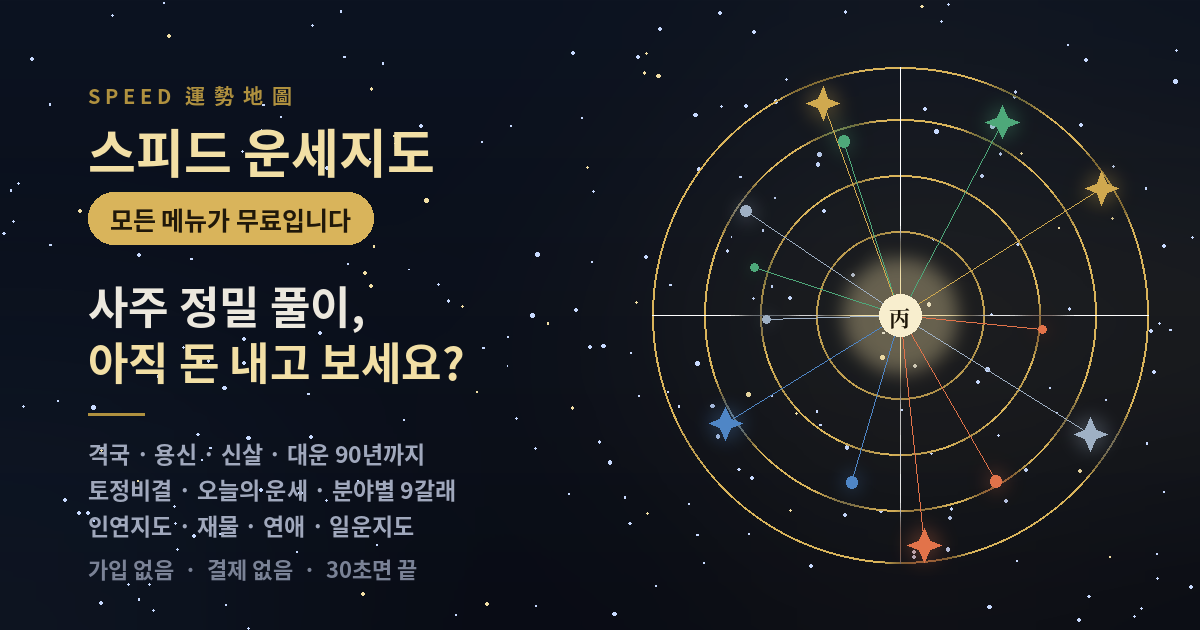
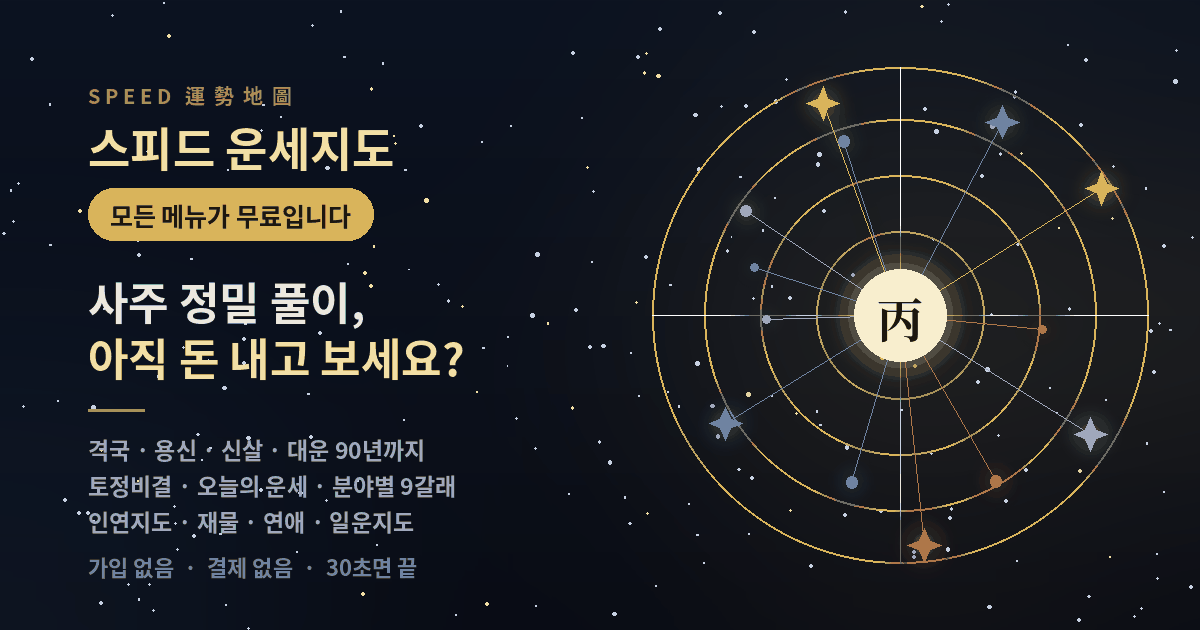
페이지별 썸네일 9종
홈·사주 정밀 풀이·오늘의 운세·토정비결·분야별 풀이·재물지도·연애지도·일운지도·인연지도가 각각 다른 OG 썸네일을 씁니다. 중앙 글리프(丙 四 日 卦 ◈ 財 緣 業 ✦)와 포인트 색, 문구가 페이지마다 다릅니다. /w/:code 는 방 주제에 맞는 썸네일, /m/:code 는 인연지도 썸네일. og:image:alt 도 페이지 제목으로 교체.

diff --git a/index.js b/index.js
@@ -7,6 +7,21 @@ import { deepSaju, extendDeep } from './deep.js';
 import { leapMonthOf, lunarMonthLength } from './astro.js';
 import APP_HTML from './app.html';
 import OG_PNG from './og.png';
+import OG_SAJU from './og-saju.png';
+import OG_TODAY from './og-today.png';
+import OG_TOJEONG from './og-tojeong.png';
+import OG_LIFE from './og-life.png';
+import OG_WEALTH from './og-wealth.png';
+import OG_LOVE from './og-love.png';
+import OG_WORK from './og-work.png';
+import OG_MAP from './og-map.png';
+
+/* 페이지별 썸네일 */
+const OG_FILES = {
+  'og.png': OG_PNG, 'og-saju.png': OG_SAJU, 'og-today.png': OG_TODAY,
+  'og-tojeong.png': OG_TOJEONG, 'og-life.png': OG_LIFE, 'og-wealth.png': OG_WEALTH,
+  'og-love.png': OG_LOVE, 'og-work.png': OG_WORK, 'og-map.png': OG_MAP,
+};
 import AD1_PNG from './ad1.png';
 import { handleAuth, currentUser, ensureAuthSchema, enabledProviders } from './auth.js';
 import { privacyPage, termsPage } from './legal.js';
@@ -689,6 +704,7 @@ async function handleApi(request, env, url) {
 }
 
 function renderPage(meta) {
+  const img = OG_FILES[meta.img] ? meta.img : 'og.png';
   const t = esc(meta.title);
   const d = esc(meta.desc);
   const u = esc(meta.url);
@@ -701,14 +717,14 @@ function renderPage(meta) {
 <meta property="og:title" content="${t}">
 <meta property="og:description" content="${d}">
 <meta property="og:url" content="${u}">
-<meta property="og:image" content="${esc(meta.origin)}/og.png">
+<meta property="og:image" content="${esc(meta.origin)}/${img}">
 <meta property="og:image:width" content="1200">
 <meta property="og:image:height" content="630">
 <meta property="og:image:type" content="image/png">
-<meta property="og:image:alt" content="인연지도 - 사주로 그리는 사람 별자리 지도">
+<meta property="og:image:alt" content="${t}">
 <meta name="twitter:title" content="${t}">
 <meta name="twitter:description" content="${d}">
-<meta name="twitter:image" content="${esc(meta.origin)}/og.png">
+<meta name="twitter:image" content="${esc(meta.origin)}/${img}">
 <meta name="twitter:card" content="summary_large_image">
 <link rel="canonical" href="${u}">`;
   return APP_HTML.replace('<!--HEAD-->', head)
@@ -740,10 +756,14 @@ export default {
       }
     }
 
-    if (url.pathname === '/og.png') {
-      return new Response(OG_PNG, {
-        headers: { 'content-type': 'image/png', 'cache-control': 'public, max-age=604800' },
-      });
+    if (url.pathname.startsWith('/og') && url.pathname.endsWith('.png')) {
+      const key = url.pathname.slice(1);
+      const buf = OG_FILES[key];
+      if (buf) {
+        return new Response(buf, {
+          headers: { 'content-type': 'image/png', 'cache-control': 'public, max-age=604800' },
+        });
+      }
     }
 
     if (url.pathname === '/ad1.png') {
@@ -763,21 +783,21 @@ export default {
       });
     }
     const PAGES = {
-      '/today': { view: 'today', title: '오늘의 운세 · 스피드 운세지도', desc: '오늘 일진과 내 사주를 견줘 하루의 결을 봅니다. 시간대별 12시진 흐름, 오늘 맞는 띠, 이번 주 7일 흐름까지 무료입니다.' },
-      '/saju': { view: 'saju', title: '사주 정밀 풀이 · 스피드 운세지도', desc: '원국 여덟 글자에 십신·지장간·십이운성·공망, 신강신약·격국·용신, 신살 20여 종, 궁과 육친, 대운 90년과 올해 12개월까지. 전부 무료입니다.' },
-      '/life': { view: 'life', title: '분야별 풀이 · 스피드 운세지도', desc: '건강·재물·일·애정·문서·가정·사람·이동·말년. 내 원국을 아홉 갈래로 나눠 점수와 풀이를 따로 냅니다. 무료입니다.' },
-      '/about': { view: 'about', title: '어떻게 계산하나요 · 스피드 운세지도', desc: '스피드 운세지도가 쓰는 명리학 방법과 천문 계산을 그대로 공개합니다.' },
-      '/tojeong': { view: 'tojeong', title: '토정비결 · 스피드 운세지도', desc: '올해 나의 토정비결을 무료로 봅니다. 144괘 작괘는 전통 그대로, 여기에 재물·직장·애정·건강·문서·이동·사람·구설 여덟 갈래와 12개월 월운까지 더했습니다.' },
-      '/my': { view: 'profile', title: '내 사주 · 스피드 운세지도', desc: '생년월일을 한 번만 넣으면 오늘의 운세·사주팔자·분야별 풀이가 바로 열립니다.' },
-      '/wealth': { view: 'roomNew', topic: 'wealth', title: '재물지도 · 스피드 운세지도', desc: '단톡방 사람들의 재물 사주를 한 장의 지도에 모읍니다. 가운데가 財, 안쪽에 있을수록 재물 그릇이 큰 사람입니다. 무료입니다.' },
-      '/love': { view: 'roomNew', topic: 'love', title: '연애지도 · 스피드 운세지도', desc: '단톡방에서 누구에게 인연이 먼저 오는지 사주로 봅니다. 애인 유무는 묻지 않습니다. 무료입니다.' },
-      '/work': { view: 'roomNew', topic: 'work', title: '일운지도 · 스피드 운세지도', desc: '누가 크게 쓰일 사람인지 사주로 봅니다. 직업이나 연봉은 묻지 않습니다. 무료입니다.' },
+      '/today': { view: 'today', img: 'og-today.png', title: '오늘의 운세 · 스피드 운세지도', desc: '오늘 일진과 내 사주를 견줘 하루의 결을 봅니다. 시간대별 12시진 흐름, 오늘 맞는 띠, 이번 주 7일 흐름까지 무료입니다.' },
+      '/saju': { view: 'saju', img: 'og-saju.png', title: '사주 정밀 풀이 · 스피드 운세지도', desc: '원국 여덟 글자에 십신·지장간·십이운성·공망, 신강신약·격국·용신, 신살 20여 종, 궁과 육친, 대운 90년과 올해 12개월까지. 전부 무료입니다.' },
+      '/life': { view: 'life', img: 'og-life.png', title: '분야별 풀이 · 스피드 운세지도', desc: '건강·재물·일·애정·문서·가정·사람·이동·말년. 내 원국을 아홉 갈래로 나눠 점수와 풀이를 따로 냅니다. 무료입니다.' },
+      '/about': { view: 'about', img: 'og.png', title: '어떻게 계산하나요 · 스피드 운세지도', desc: '스피드 운세지도가 쓰는 명리학 방법과 천문 계산을 그대로 공개합니다.' },
+      '/tojeong': { view: 'tojeong', img: 'og-tojeong.png', title: '토정비결 · 스피드 운세지도', desc: '올해 나의 토정비결을 무료로 봅니다. 144괘 작괘는 전통 그대로, 여기에 재물·직장·애정·건강·문서·이동·사람·구설 여덟 갈래와 12개월 월운까지 더했습니다.' },
+      '/my': { view: 'profile', img: 'og-saju.png', title: '내 사주 · 스피드 운세지도', desc: '생년월일을 한 번만 넣으면 오늘의 운세·사주팔자·분야별 풀이가 바로 열립니다.' },
+      '/wealth': { view: 'roomNew', topic: 'wealth', img: 'og-wealth.png', title: '재물지도 · 스피드 운세지도', desc: '단톡방 사람들의 재물 사주를 한 장의 지도에 모읍니다. 가운데가 財, 안쪽에 있을수록 재물 그릇이 큰 사람입니다. 무료입니다.' },
+      '/love': { view: 'roomNew', topic: 'love', img: 'og-love.png', title: '연애지도 · 스피드 운세지도', desc: '단톡방에서 누구에게 인연이 먼저 오는지 사주로 봅니다. 애인 유무는 묻지 않습니다. 무료입니다.' },
+      '/work': { view: 'roomNew', topic: 'work', img: 'og-work.png', title: '일운지도 · 스피드 운세지도', desc: '누가 크게 쓰일 사람인지 사주로 봅니다. 직업이나 연봉은 묻지 않습니다. 무료입니다.' },
     };
     if (PAGES[url.pathname]) {
       const pg = PAGES[url.pathname];
       if (env.DB) ctx.waitUntil(bumpStats(env));
       return new Response(renderPage({
-        title: pg.title, desc: pg.desc, url: origin + url.pathname, origin,
+        title: pg.title, desc: pg.desc, url: origin + url.pathname, origin, img: pg.img,
         boot: { view: pg.view, topic: pg.topic, providers: enabledProviders(env), kakaoKey: env.KAKAO_JS_KEY || '' },
       }), { headers: { 'content-type': 'text/html; charset=utf-8', 'cache-control': 'no-store' } });
     }
@@ -785,7 +805,7 @@ export default {
     if (url.pathname === '/login' || url.pathname === '/me') {
       return new Response(renderPage({
         title: url.pathname === '/login' ? '스피드 운세지도 로그인' : '내 지도 · 스피드 운세지도',
-        desc: '스피드 운세지도', url: origin + url.pathname, origin,
+        desc: '스피드 운세지도', url: origin + url.pathname, origin, img: 'og.png',
         boot: { view: url.pathname === '/login' ? 'login' : 'mine', providers: enabledProviders(env), kakaoKey: env.KAKAO_JS_KEY || '' },
       }), { headers: { 'content-type': 'text/html; charset=utf-8', 'cache-control': 'no-store' } });
     }
@@ -820,7 +840,7 @@ export default {
         ? `생일만 넣으면 ${ownerName}님과 나 사이에 오가는 기운을 사주로 풀어드립니다. 가입도 결제도 없이 30초면 끝납니다.`
         : '내 사람 별자리를 그려보세요.';
       if (env.DB) ctx.waitUntil(bumpStats(env));
-      return new Response(renderPage({ title, desc, url: `${origin}/m/${code}`, origin, boot: { view: 'map', code, ownerName, kakaoKey: env.KAKAO_JS_KEY || '', providers }, noindex: true }), {
+      return new Response(renderPage({ title, desc, url: `${origin}/m/${code}`, origin, img: 'og-map.png', boot: { view: 'map', code, ownerName, kakaoKey: env.KAKAO_JS_KEY || '', providers }, noindex: true }), {
         headers: { 'content-type': 'text/html; charset=utf-8', 'cache-control': 'no-store' },
       });
     }
@@ -844,7 +864,7 @@ export default {
         : `단톡방 사람들의 사주를 한 장의 지도에 모읍니다. ${TL}, 전부 무료입니다.`;
       if (env.DB) ctx.waitUntil(bumpStats(env));
       return new Response(renderPage({
-        title, desc, url: `${origin}/w/${code}`, origin,
+        title, desc, url: `${origin}/w/${code}`, origin, img: 'og-' + topic2 + '.png',
         boot: { view: 'room', code, roomTitle: title2, topic: topic2, kakaoKey: env.KAKAO_JS_KEY || '', providers },
         noindex: true,
       }), { headers: { 'content-type': 'text/html; charset=utf-8', 'cache-control': 'no-store' } });
@@ -860,8 +880,8 @@ export default {
     }
 
     return new Response(renderPage({
-      title: '인연지도 · 페이지를 찾을 수 없습니다',
-      desc: '인연지도', url: origin, origin, boot: { view: 'notfound' },
+      title: '스피드 운세지도 · 페이지를 찾을 수 없습니다',
+      desc: '스피드 운세지도', url: origin, origin, boot: { view: 'notfound' },
     }), { status: 404, headers: { 'content-type': 'text/html; charset=utf-8' } });
   },
 };
